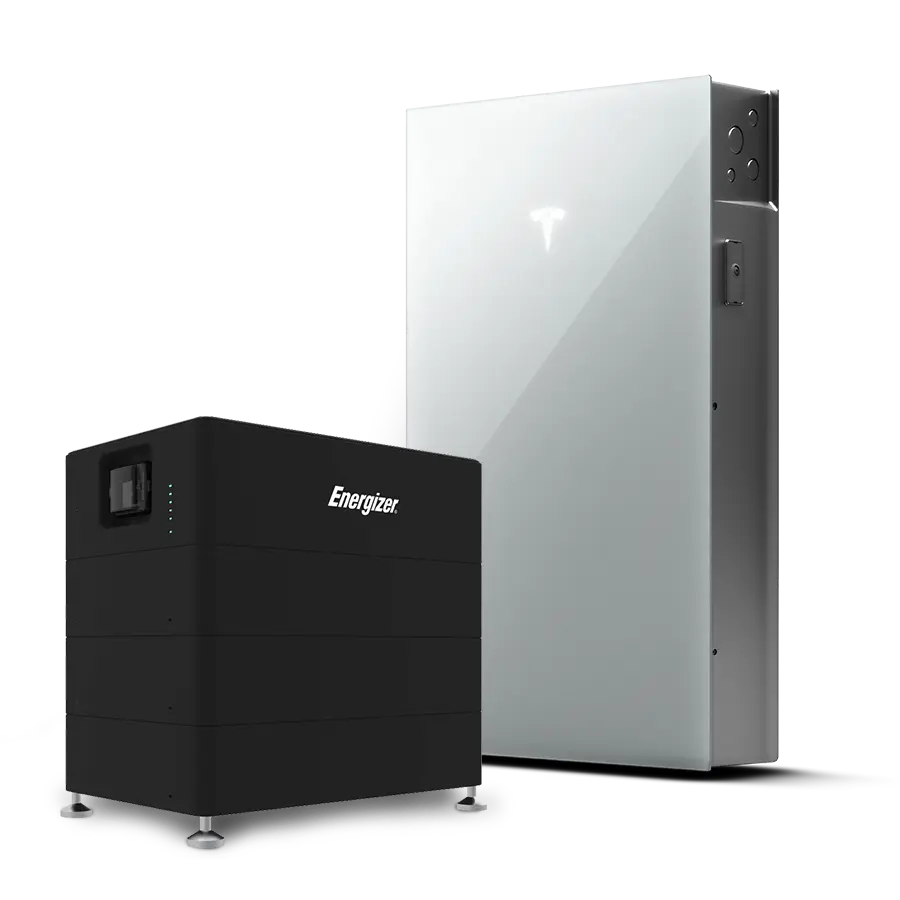
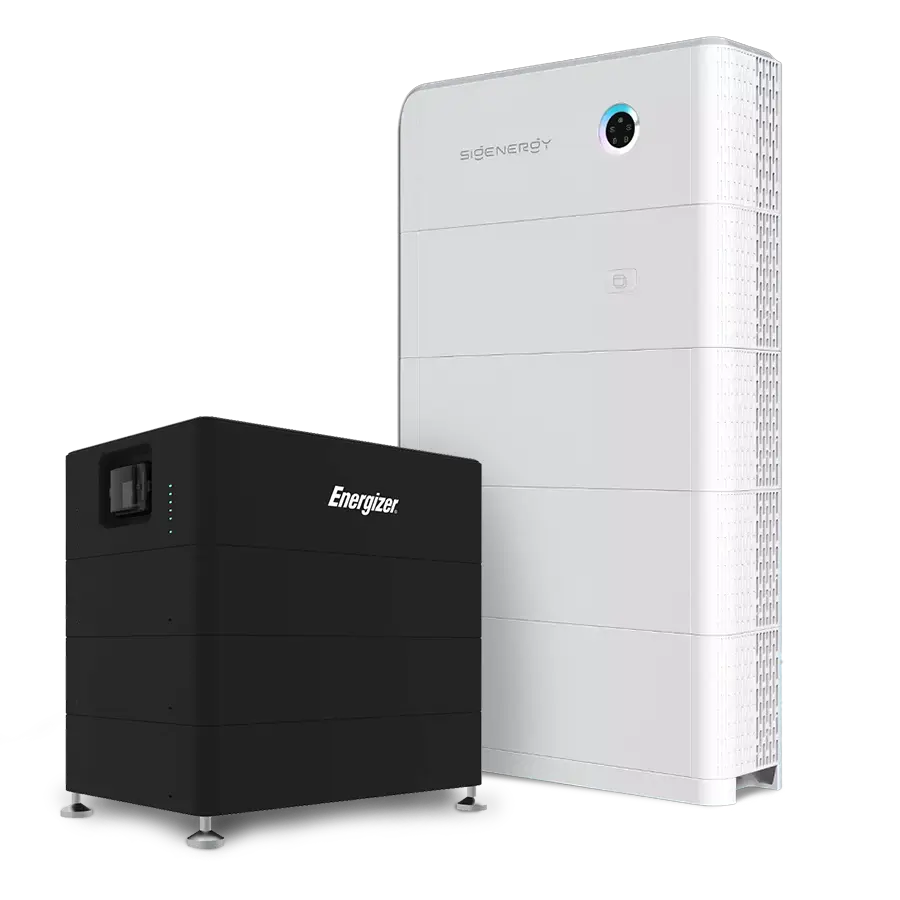
UI: update images for career and battery pages, update Tier 1 product text, and add new assets

Changed region(s): [[0.4356, 0.0311, 0.9333, 0.9022], [0.5911, 0.2178, 0.6222, 0.28]]

diff --git a/src/app/services/batteries/page.tsx b/src/app/services/batteries/page.tsx
@@ -84,7 +84,7 @@ export default function Batteries() {
                                 <div className="hero-content-center">
                                     <AnimatedHeading tag="h2" className="section-subtitle">TIER 1 PRODUCTS</AnimatedHeading>
                                     <AnimatedHeading tag="h3" className="section-title" style={{ color: "#000000" }}>We Only Use the Best<br />of the Best</AnimatedHeading>
-                                    <p className="section-desc" style={{ color: "#000000" }}>We don&apos;t settle for anything but the best for the Battery products we sell &amp; install. By using the best brands such as Energizer, Jinko and GoodWe, we can offer a 10-year performance warranty and 10-year workmanship warranty. You can rest easy knowing your system will perform long into the future.</p>
+                                    <p className="section-desc" style={{ color: "#000000" }}>We don&apos;t settle for anything but the best for the Battery products we sell &amp; install. By using the best brands such as Energizer and Sigenergy, we can offer a 10-year performance warranty and 10-year workmanship warranty. You can rest easy knowing your system will perform long into the future.</p>
                                     <QuoteBtn />
                                 </div>
                             </div>

diff --git a/src/app/career/page.tsx b/src/app/career/page.tsx
@@ -29,7 +29,7 @@ export default function CareerPage() {
                             {/* Sales Card */}
                             <div className="animate-on-scroll career-card" style={{ transition: 'transform 0.3s, box-shadow 0.3s' }}>
                                 <img
-                                    src="/careers-sales.jpg"
+                                    src="/assets/careers-sales.webp"
                                     alt="Sales and Appointment Setting"
                                     className="career-card-img w-full md:w-[80%] mx-auto block"
                                     style={{
@@ -66,7 +66,7 @@ export default function CareerPage() {
                             {/* Electrical Card */}
                             <div className="animate-on-scroll delay-1 career-card" style={{ transition: 'transform 0.3s, box-shadow 0.3s' }}>
                                 <img
-                                    src="/careers-installer.jpg"
+                                    src="/assets/careers-installer.webp"
                                     alt="Electrical and Installation"
                                     className="career-card-img w-full md:w-[80%] mx-auto block"
                                     style={{ height: 'auto', objectFit: 'contain' }}
